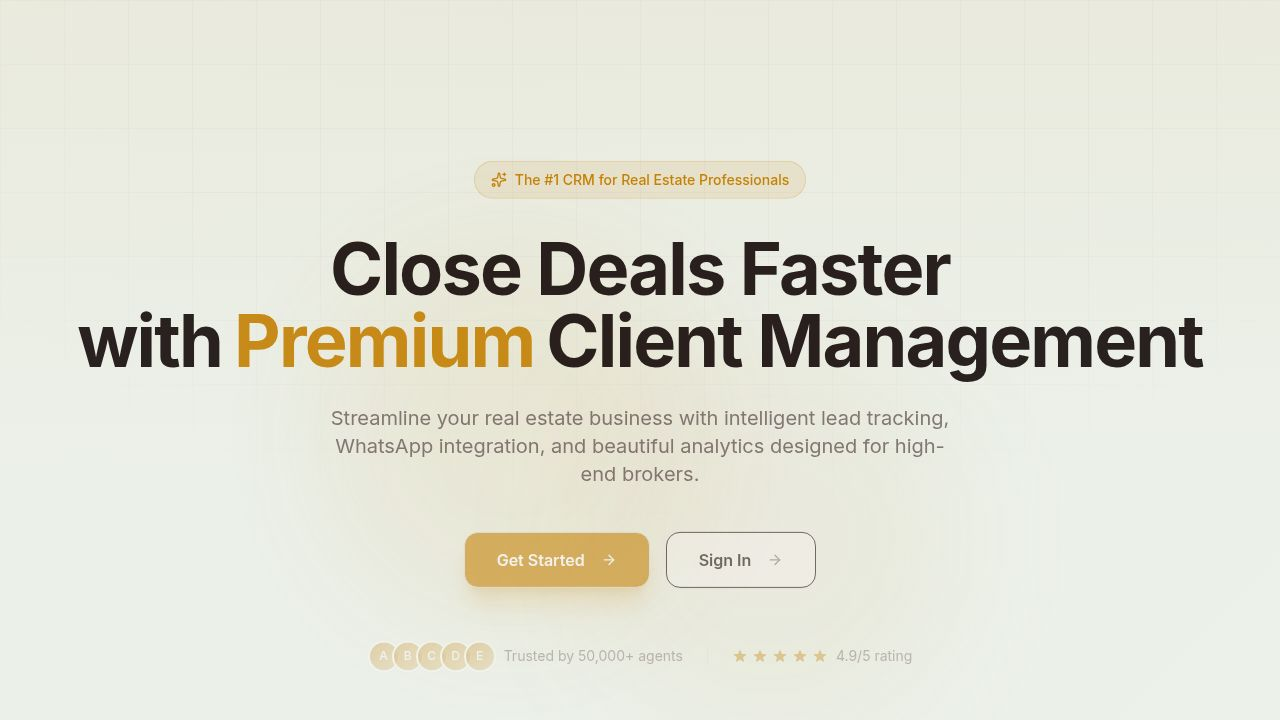
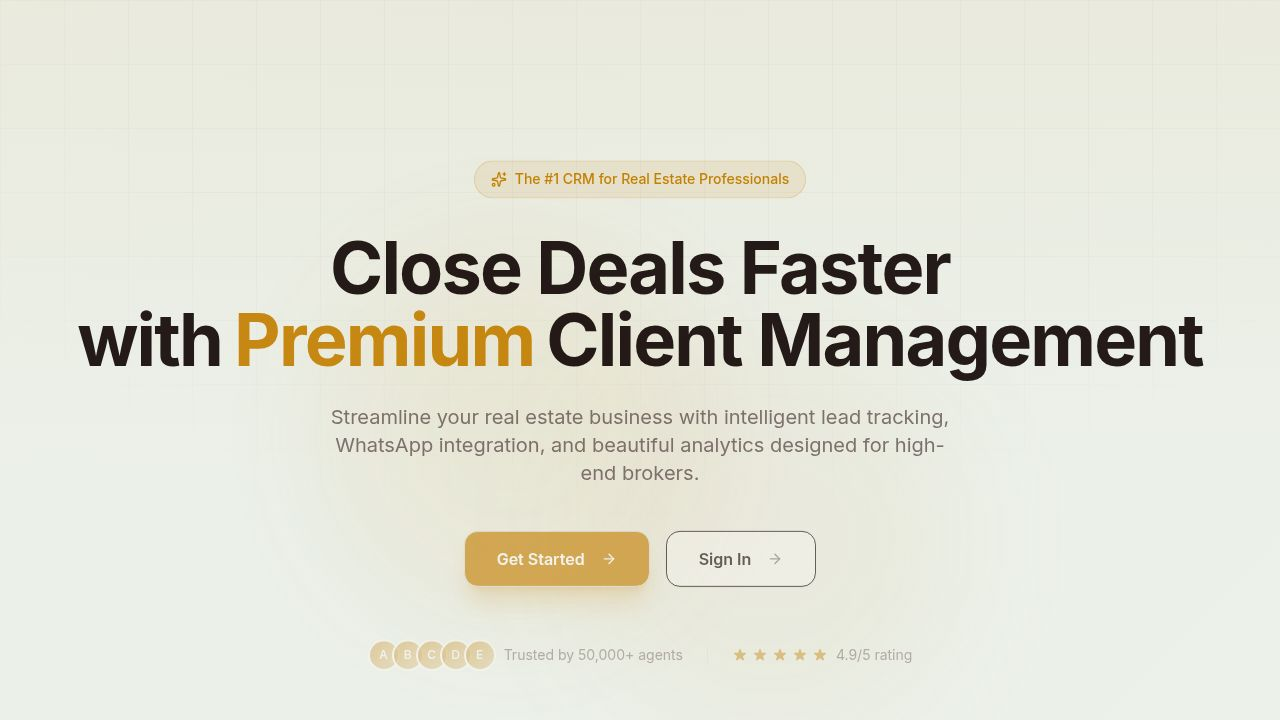
Update database schema and add contact table
Adds a new 'contacts' table to the Drizzle schema and modifies existing 'conversations' and 'messages' tables to include additional fields and use UUIDs for primary keys.

Replit-Commit-Author: Agent
Replit-Commit-Session-Id: 2b962f0b-b1b9-403e-bbde-59de051c55b9
Replit-Commit-Checkpoint-Type: full_checkpoint
Replit-Commit-Event-Id: 3634f059-621c-40e1-8c3d-b430707840d0
Replit-Commit-Screenshot-Url: https://storage.googleapis.com/screenshot-production-us-central1/abec0351-5d7c-4856-974d-29c2a6959aa0/2b962f0b-b1b9-403e-bbde-59de051c55b9/irSH8Vw
Replit-Helium-Checkpoint-Created: true

diff --git a/lib/db/src/schema/contacts.ts b/lib/db/src/schema/contacts.ts
@@ -1,0 +1,23 @@
+import { pgTable, text, timestamp, uuid } from "drizzle-orm/pg-core";
+import { createInsertSchema } from "drizzle-zod";
+import { z } from "zod/v4";
+
+export const contacts = pgTable("contacts", {
+  id: uuid("id").defaultRandom().primaryKey(),
+  userId: uuid("user_id").notNull(),
+  name: text("name").notNull(),
+  phone: text("phone"),
+  email: text("email"),
+  avatarInitials: text("avatar_initials"),
+  createdAt: timestamp("created_at", { withTimezone: true }).defaultNow().notNull(),
+  updatedAt: timestamp("updated_at", { withTimezone: true }).defaultNow().notNull(),
+});
+
+export const insertContactSchema = createInsertSchema(contacts).omit({
+  id: true,
+  createdAt: true,
+  updatedAt: true,
+});
+
+export type Contact = typeof contacts.$inferSelect;
+export type InsertContact = z.infer<typeof insertContactSchema>;

diff --git a/lib/db/src/schema/conversations.ts b/lib/db/src/schema/conversations.ts
@@ -1,16 +1,27 @@
-import { pgTable, serial, text, timestamp } from "drizzle-orm/pg-core";
+import { pgTable, text, timestamp, uuid, integer } from "drizzle-orm/pg-core";
 import { createInsertSchema } from "drizzle-zod";
 import { z } from "zod/v4";
 
 export const conversations = pgTable("conversations", {
-  id: serial("id").primaryKey(),
-  title: text("title").notNull(),
+  id: uuid("id").defaultRandom().primaryKey(),
+  userId: uuid("user_id").notNull(),
+  contactId: uuid("contact_id"),
+  leadId: integer("lead_id"),
+  title: text("title"),
+  status: text("status").default("active").notNull(),
+  channel: text("channel").default("crm").notNull(),
+  whatsappConversationId: text("whatsapp_conversation_id"),
+  linkedProperty: text("linked_property"),
+  lastMessage: text("last_message"),
+  lastMessageAt: timestamp("last_message_at", { withTimezone: true }).defaultNow().notNull(),
+  unreadCount: integer("unread_count").default(0).notNull(),
   createdAt: timestamp("created_at", { withTimezone: true }).defaultNow().notNull(),
 });
 
 export const insertConversationSchema = createInsertSchema(conversations).omit({
   id: true,
   createdAt: true,
+  lastMessageAt: true,
 });
 
 export type Conversation = typeof conversations.$inferSelect;

diff --git a/lib/db/src/schema/messages.ts b/lib/db/src/schema/messages.ts
@@ -1,16 +1,16 @@
-import { integer, pgTable, serial, text, timestamp } from "drizzle-orm/pg-core";
+import { pgTable, text, timestamp, uuid } from "drizzle-orm/pg-core";
 import { createInsertSchema } from "drizzle-zod";
 import { z } from "zod/v4";
 
-import { conversations } from "./conversations";
-
 export const messages = pgTable("messages", {
-  id: serial("id").primaryKey(),
-  conversationId: integer("conversation_id")
-    .notNull()
-    .references(() => conversations.id, { onDelete: "cascade" }),
-  role: text("role").notNull(),
+  id: uuid("id").defaultRandom().primaryKey(),
+  conversationId: uuid("conversation_id").notNull(),
+  senderId: uuid("sender_id").notNull(),
   content: text("content").notNull(),
+  type: text("type").default("text").notNull(),
+  status: text("status").default("sent").notNull(),
+  direction: text("direction").default("outbound").notNull(),
+  whatsappMessageId: text("whatsapp_message_id"),
   createdAt: timestamp("created_at", { withTimezone: true }).defaultNow().notNull(),
 });
 

diff --git a/lib/db/src/schema/index.ts b/lib/db/src/schema/index.ts
@@ -1,5 +1,6 @@
 export * from "./users";
 export * from "./leads";
+export * from "./contacts";
 export * from "./properties";
 export * from "./conversations";
 export * from "./messages";